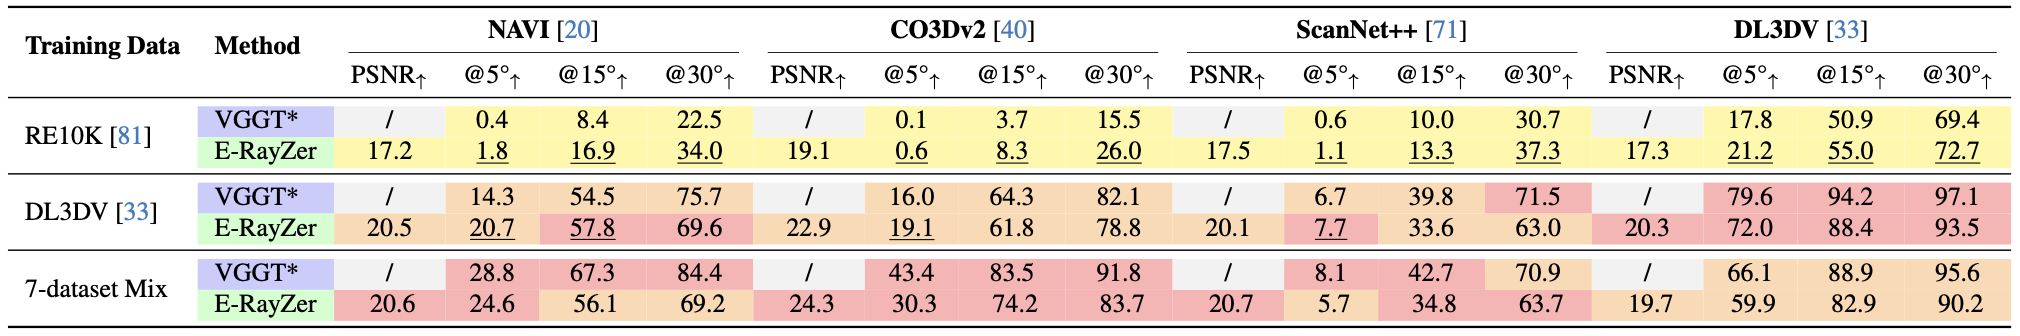
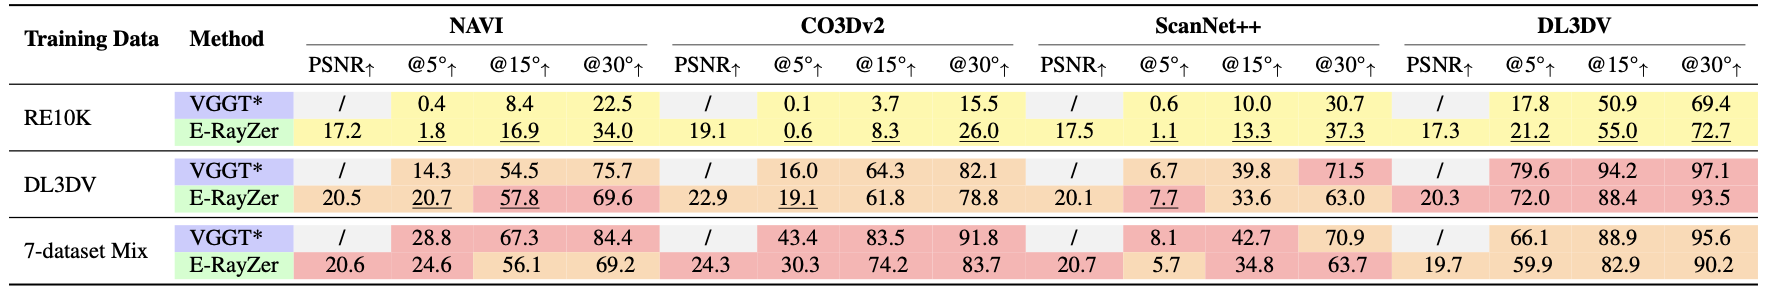
Update E-RayZer tables

diff --git a/E-RayZer.html b/E-RayZer.html
@@ -347,21 +347,34 @@
 
         <div class="content has-text-justified">
           <p>
-            <strong>Probing 3D Spatial Awareness of Learned Representations on Multi-view Depth and Pose Estimation.</strong><br> We evaluate the learned representations via both frozen-backbone and fully supervised finetuning on ScanNet++ and BlendedMVS, which are not included in pre-training for any model. The best results are shown in <strong>bold</strong>, and the second-best are <u>underlined</u>. The experiments only use the <em>encoders</em> of RayZer and <em>ours</em>.
+            <strong> (Left) Probing 3D Spatial Awareness of Learned Representations on Multi-view Depth and Pose Estimation.</strong><br>
+            We evaluate the learned representations via both frozen-backbone and fully supervised finetuning on ScanNet++ and BlendedMVS, which are not included in pre-training for any model. The best results are shown in
+            <strong>bold</strong>, and the second-best are <u>underlined</u>. The experiments only use the <em>encoders</em> of RayZer and <em>ours</em>.
           </p>
-        </div>
-        <div class="content has-text-centered">
-          <img src="./research/E-RayZer/images/downstream_pose_depth.png" width="60%"/>
-        </div>
-        
-        <div class="content has-text-justified">
           <p>
-            <strong>Probing 2.5D Spatial Awareness of Learned Representations on Pairwise Flow Estimation.</strong> We evaluate on StaticThings3D, an out-of-distribution synthetic dataset. All models are fully finetuned under flow supervision. The best results are shown in <strong>bold</strong>, and the second-best are <u>underlined</u>.
+            <strong> (Right) Probing 2.5D Spatial Awareness of Learned Representations on Pairwise Flow Estimation.</strong><br>
+            We evaluate on StaticThings3D, an out-of-distribution synthetic dataset. All models are fully finetuned under flow supervision. The best results are shown in <strong>bold</strong>, and the second-best are <u>underlined</u>.
           </p>
         </div>
-        <div class="content has-text-centered">
-          <img src="./research/E-RayZer/images/downstream_pairwise_flow.png" width="60%"/>
+
+        <!-- two figures side by side -->
+        <div class="columns is-vcentered">
+          <div class="column has-text-centered">
+            <img
+              src="./research/E-RayZer/images/downstream_pose_depth.png"
+              style="max-width: 100%;"
+              alt="Downstream depth and pose metrics."
+            />
+          </div>
+          <div class="column has-text-centered">
+            <img
+              src="./research/E-RayZer/images/downstream_pairwise_flow.png"
+              style="max-width: 100%;"
+              alt="Downstream pairwise flow metrics."
+            />
+          </div>
         </div>
+
       </div>
     </div>
   </div>
